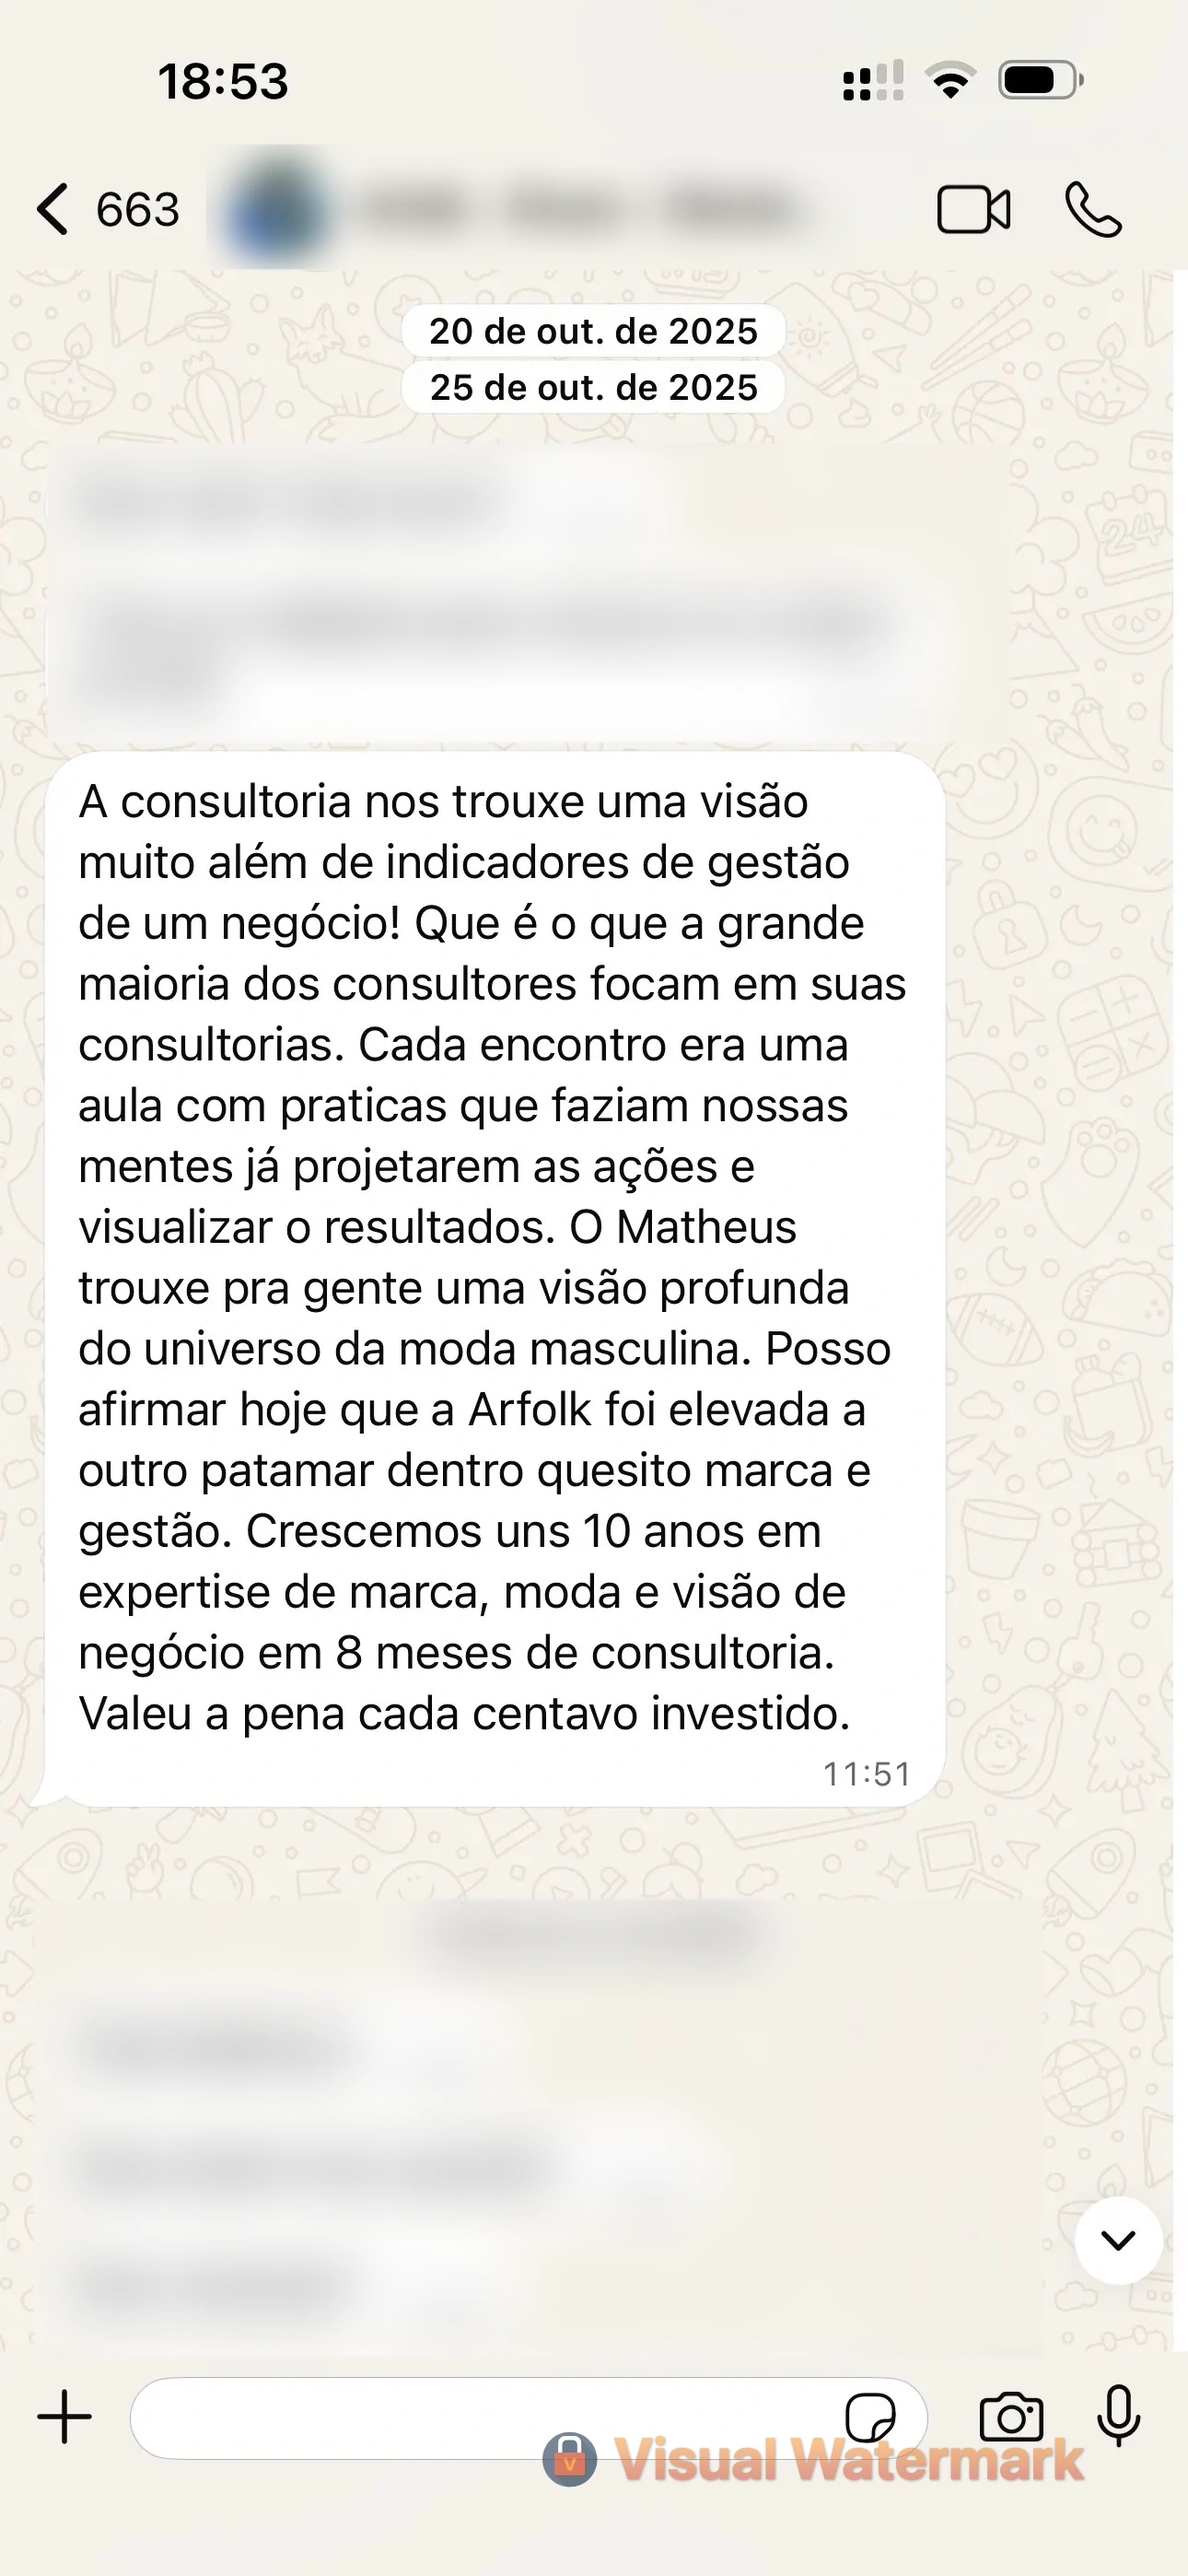
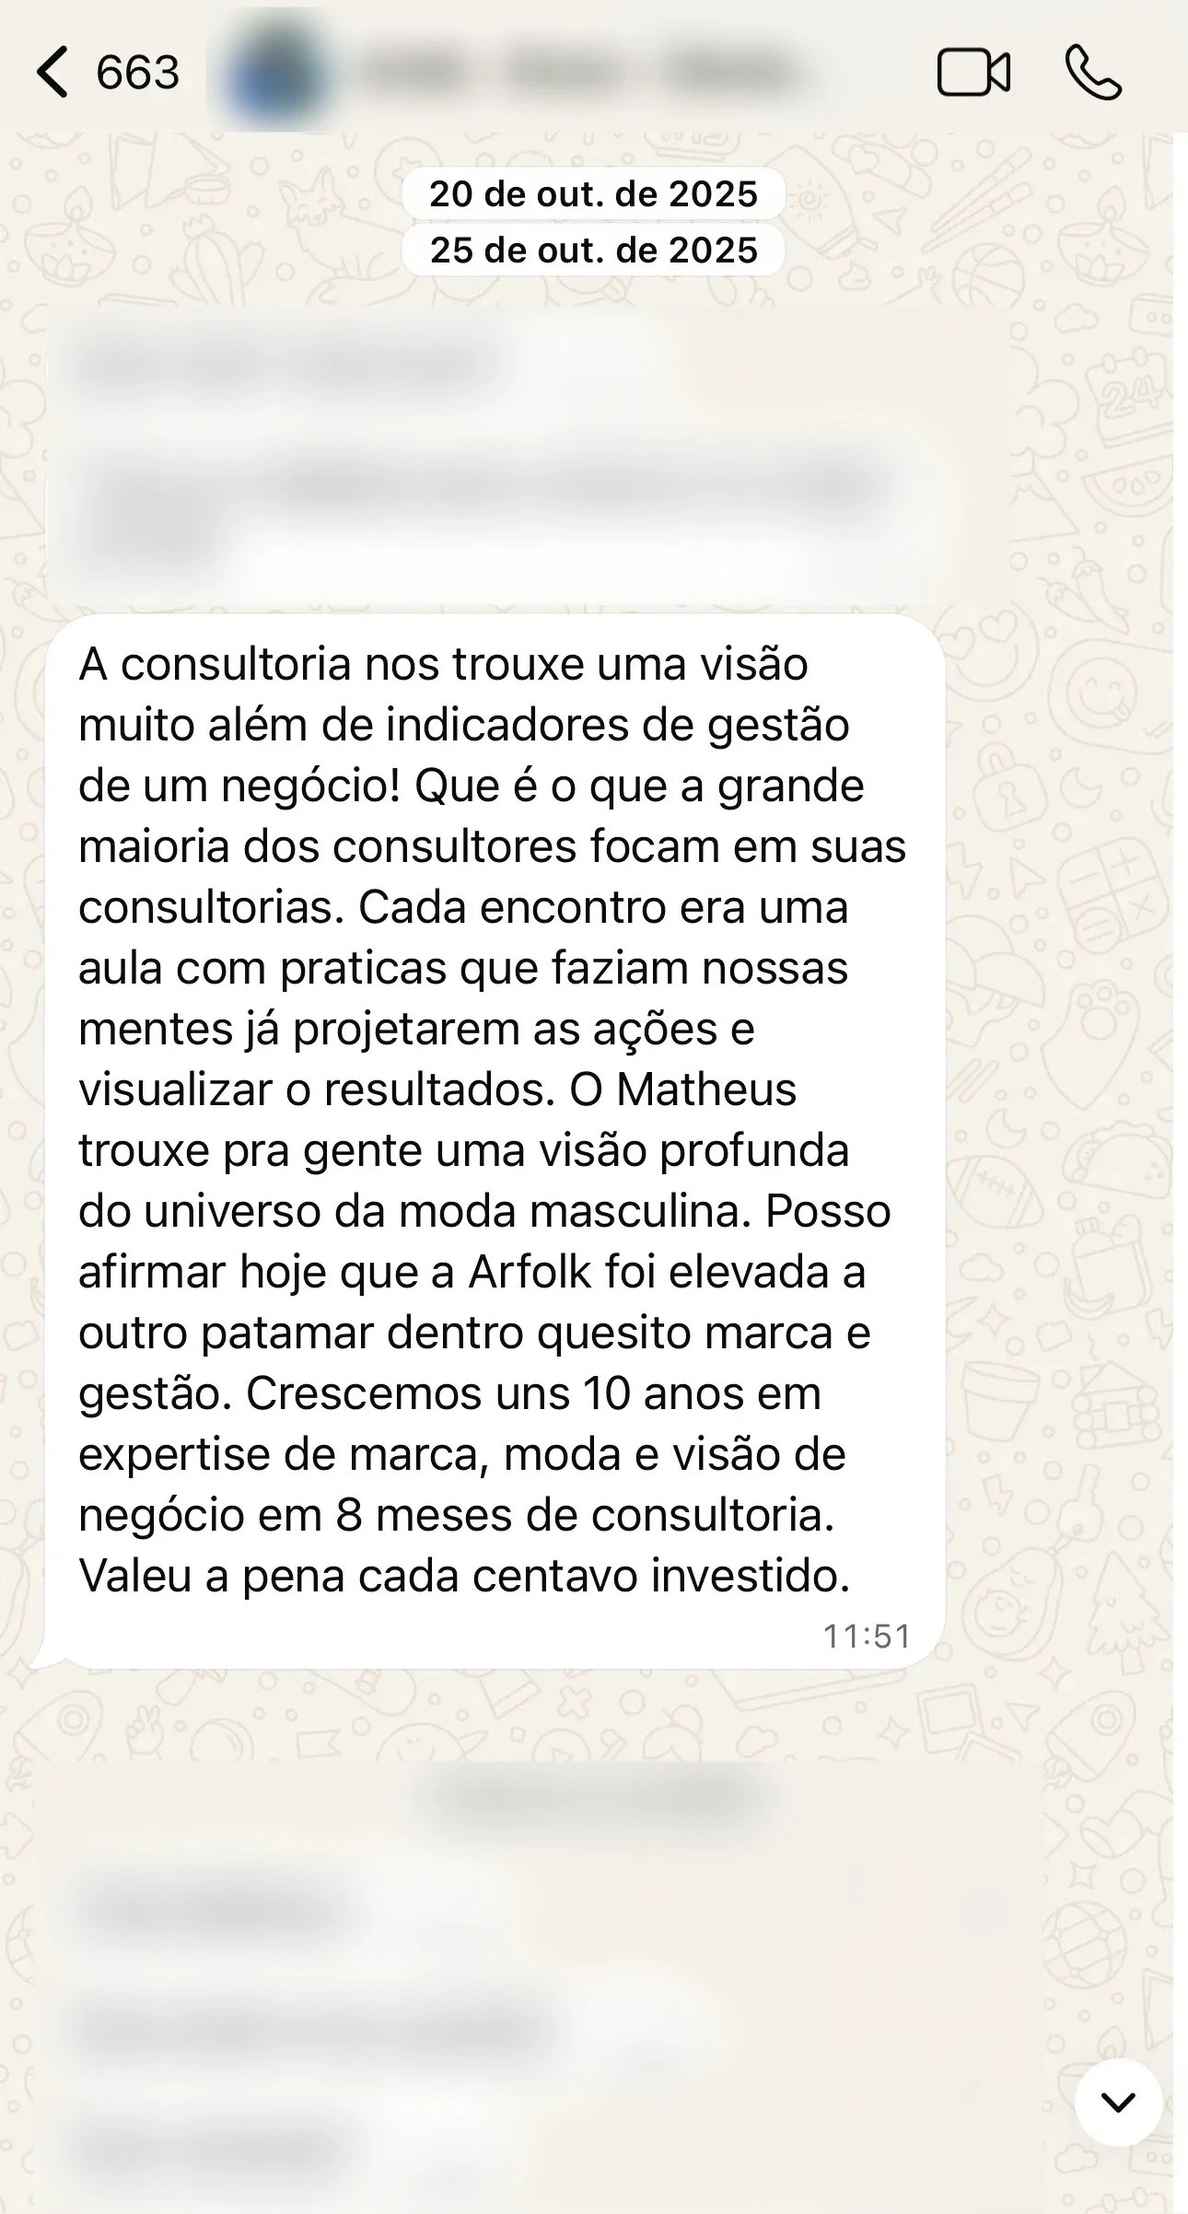
feat: update ratings

diff --git a/css/consultoria.css b/css/consultoria.css
@@ -208,7 +208,7 @@ main > .opportunity-section { order: 9; }
 .proof-copy { display: grid; gap: 24px; max-width: 680px; }
 .proof-slot { border: 1px dashed var(--color-border-strong); background: rgba(20,120,255,.04); min-height: 180px; display: grid; place-items: center; color: var(--color-text-dim); font-family: var(--font-mono); font-size: .78rem; letter-spacing: .1em; text-transform: uppercase; text-align: center; padding: 24px; }
 .reviews-section { background: #090d14; }
-.reviews-phone-wrap { --phone-width: clamp(260px, 21vw, 330px); --phone-pad: 8px; --phone-height: calc(var(--phone-width) * 932 / 430); --screen-width: calc(var(--phone-width) - (var(--phone-pad) * 2)); --screen-height: calc(var(--phone-height) - (var(--phone-pad) * 2)); --carousel-gap: clamp(22px, 4.8vw, 82px); position: relative; width: 100vw; min-height: calc(var(--phone-height) + 56px); left: 50%; display: grid; place-items: center; margin-top: 40px; margin-left: -50vw; overflow: hidden; }
+.reviews-phone-wrap { --phone-width: clamp(260px, 21vw, 330px); --phone-pad: 8px; --phone-height: calc(var(--phone-width) * 2404 / 1290); --screen-width: calc(var(--phone-width) - (var(--phone-pad) * 2)); --screen-height: calc(var(--phone-height) - (var(--phone-pad) * 2)); --carousel-gap: clamp(22px, 4.8vw, 82px); position: relative; width: 100vw; min-height: calc(var(--phone-height) + 56px); left: 50%; display: grid; place-items: center; margin-top: 40px; margin-left: -50vw; overflow: hidden; }
 .ratings-mega-viewport { position: absolute; inset: 0; display: flex; align-items: center; overflow: hidden; }
 .ratings-mega-track { display: flex; align-items: center; gap: var(--carousel-gap); will-change: transform; transition: transform .82s cubic-bezier(.22,1,.36,1); }
 .ratings-mega-track.no-transition { transition: none; }
